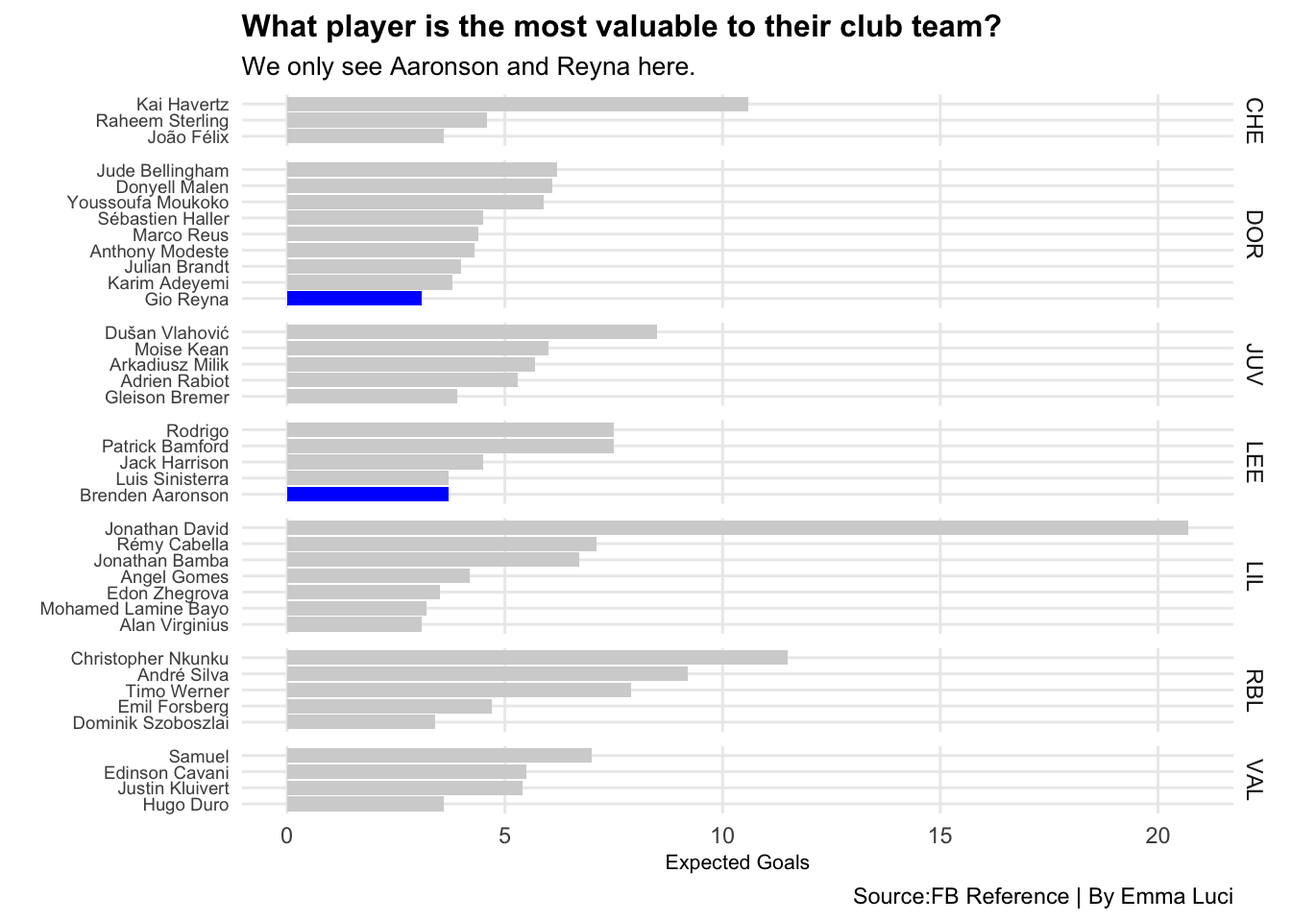
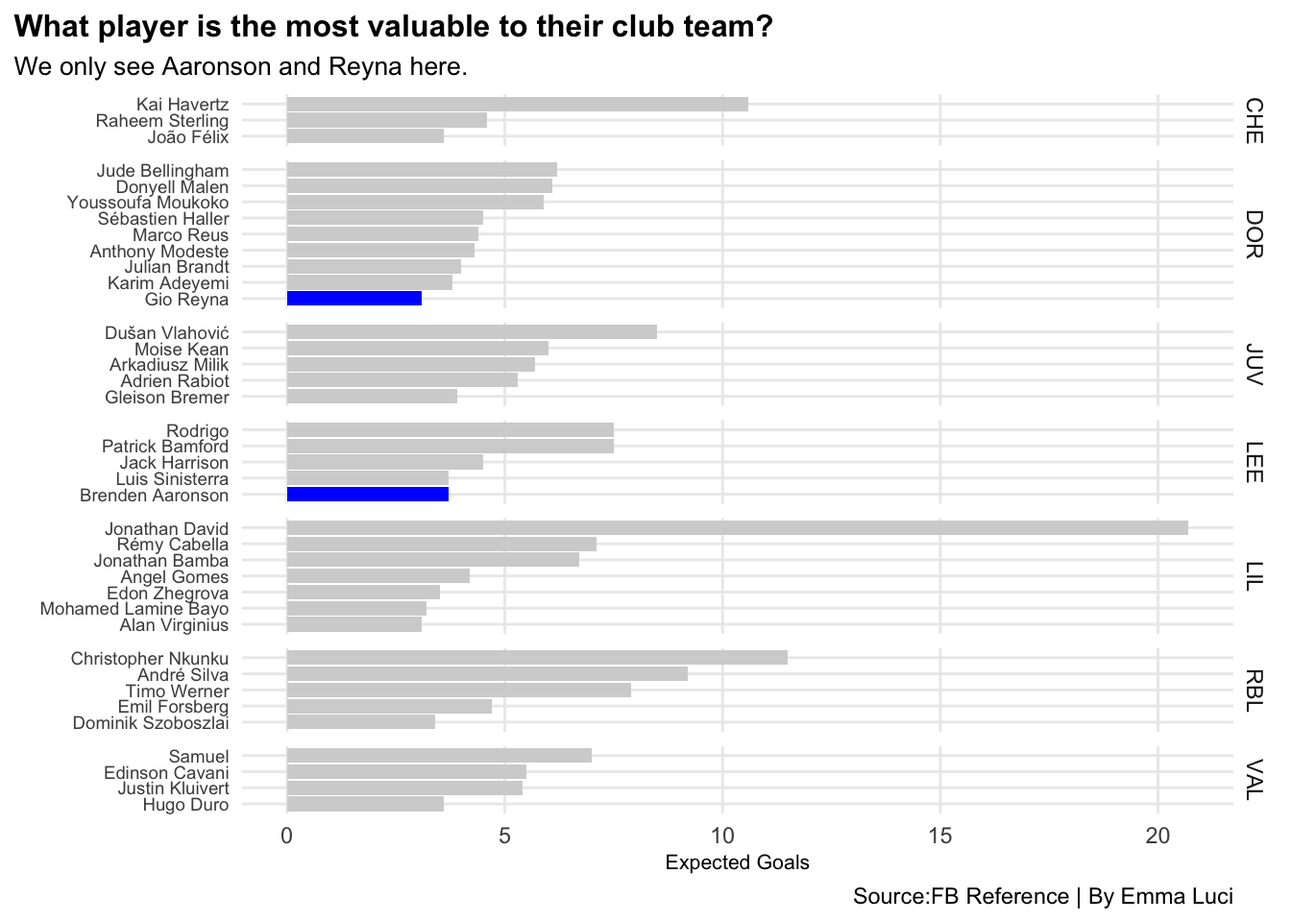
emma

Changed region(s): [[0.0, 0.0, 0.7812, 0.0938]]

diff --git a/posts/is-christian-pulisic-the-most-gifted-american-soccer-player/index.html b/posts/is-christian-pulisic-the-most-gifted-american-soccer-player/index.html
@@ -247,42 +247,39 @@ code span.wa { color: #60a0b0; font-weight: bold; font-style: italic; } /* Warni
 <span id="cb6-4"><a href="#cb6-4" aria-hidden="true" tabindex="-1"></a></span>
 <span id="cb6-5"><a href="#cb6-5" aria-hidden="true" tabindex="-1"></a>americanjoined <span class="ot">&lt;-</span> americapassing <span class="sc">%&gt;%</span> <span class="fu">inner_join</span>(americashooting)</span></code><button title="Copy to Clipboard" class="code-copy-button"><i class="bi"></i></button></pre></div>
 </details>
-<div class="cell-output cell-output-stderr">
-<pre><code>Joining, by = c("Season_End_Year", "Squad", "Comp", "Player", "Nation", "Pos",
-"Age", "Born", "Mins_Per_90", "Url")</code></pre>
-</div>
 </div>
 <div class="cell">
 <details>
 <summary>Code</summary>
-<div class="sourceCode cell-code" id="cb8"><pre class="sourceCode r code-with-copy"><code class="sourceCode r"><span id="cb8-1"><a href="#cb8-1" aria-hidden="true" tabindex="-1"></a><span class="co">#goals and assists of each player in stacked bar chart</span></span>
-<span id="cb8-2"><a href="#cb8-2" aria-hidden="true" tabindex="-1"></a>goalsandassists <span class="ot">&lt;-</span> americanjoined <span class="sc">%&gt;%</span> </span>
-<span id="cb8-3"><a href="#cb8-3" aria-hidden="true" tabindex="-1"></a>  <span class="fu">group_by</span>(Player) <span class="sc">%&gt;%</span> </span>
-<span id="cb8-4"><a href="#cb8-4" aria-hidden="true" tabindex="-1"></a>  <span class="fu">summarize</span>(</span>
-<span id="cb8-5"><a href="#cb8-5" aria-hidden="true" tabindex="-1"></a>    <span class="at">Goals =</span> <span class="fu">sum</span>(Gls_Standard, <span class="at">na.rm=</span><span class="cn">TRUE</span>),</span>
-<span id="cb8-6"><a href="#cb8-6" aria-hidden="true" tabindex="-1"></a>    <span class="at">Assists =</span> <span class="fu">sum</span>(Ast)</span>
-<span id="cb8-7"><a href="#cb8-7" aria-hidden="true" tabindex="-1"></a>    ) <span class="sc">%&gt;%</span></span>
-<span id="cb8-8"><a href="#cb8-8" aria-hidden="true" tabindex="-1"></a>  <span class="fu">pivot_longer</span>(<span class="at">cols=</span><span class="sc">-</span>Player, <span class="at">names_to =</span> <span class="st">"Type"</span>, <span class="at">values_to =</span> <span class="st">"Count"</span>)</span>
-<span id="cb8-9"><a href="#cb8-9" aria-hidden="true" tabindex="-1"></a></span>
-<span id="cb8-10"><a href="#cb8-10" aria-hidden="true" tabindex="-1"></a></span>
-<span id="cb8-11"><a href="#cb8-11" aria-hidden="true" tabindex="-1"></a><span class="fu">ggplot</span>() <span class="sc">+</span></span>
-<span id="cb8-12"><a href="#cb8-12" aria-hidden="true" tabindex="-1"></a>  <span class="fu">geom_bar</span>(</span>
-<span id="cb8-13"><a href="#cb8-13" aria-hidden="true" tabindex="-1"></a>    <span class="at">data=</span>goalsandassists,</span>
-<span id="cb8-14"><a href="#cb8-14" aria-hidden="true" tabindex="-1"></a>    <span class="fu">aes</span> (<span class="at">x=</span><span class="fu">reorder</span>(Player, Count), <span class="at">weight=</span>Count, <span class="at">fill=</span> Type)) <span class="sc">+</span></span>
-<span id="cb8-15"><a href="#cb8-15" aria-hidden="true" tabindex="-1"></a>  <span class="fu">coord_flip</span>() <span class="sc">+</span></span>
-<span id="cb8-16"><a href="#cb8-16" aria-hidden="true" tabindex="-1"></a><span class="fu">labs</span>(</span>
-<span id="cb8-17"><a href="#cb8-17" aria-hidden="true" tabindex="-1"></a>    <span class="at">title=</span><span class="st">"Who is the best player goals and assists wise?"</span>, </span>
-<span id="cb8-18"><a href="#cb8-18" aria-hidden="true" tabindex="-1"></a>    <span class="at">subtitle=</span><span class="st">"Apparently Adams and Aaronson are not goal scorers."</span>,</span>
-<span id="cb8-19"><a href="#cb8-19" aria-hidden="true" tabindex="-1"></a>    <span class="at">caption=</span><span class="st">"Source:FB Reference | By Emma Luci"</span>,</span>
-<span id="cb8-20"><a href="#cb8-20" aria-hidden="true" tabindex="-1"></a>    <span class="at">x=</span><span class="st">""</span>, </span>
-<span id="cb8-21"><a href="#cb8-21" aria-hidden="true" tabindex="-1"></a>    <span class="at">y=</span><span class="st">"Count"</span>) <span class="sc">+</span> </span>
-<span id="cb8-22"><a href="#cb8-22" aria-hidden="true" tabindex="-1"></a><span class="fu">theme_minimal</span>() <span class="sc">+</span></span>
-<span id="cb8-23"><a href="#cb8-23" aria-hidden="true" tabindex="-1"></a>  <span class="fu">theme</span>(</span>
-<span id="cb8-24"><a href="#cb8-24" aria-hidden="true" tabindex="-1"></a>   <span class="at">plot.title =</span> <span class="fu">element_text</span>(<span class="at">size =</span> <span class="dv">12</span>, <span class="at">face =</span> <span class="st">"bold"</span>),</span>
-<span id="cb8-25"><a href="#cb8-25" aria-hidden="true" tabindex="-1"></a>    <span class="at">axis.title =</span> <span class="fu">element_text</span>(<span class="at">size =</span> <span class="dv">8</span>), </span>
-<span id="cb8-26"><a href="#cb8-26" aria-hidden="true" tabindex="-1"></a>    <span class="at">plot.subtitle =</span> <span class="fu">element_text</span>(<span class="at">size=</span><span class="dv">10</span>), </span>
-<span id="cb8-27"><a href="#cb8-27" aria-hidden="true" tabindex="-1"></a>    <span class="at">panel.grid.minor =</span> <span class="fu">element_blank</span>()</span>
-<span id="cb8-28"><a href="#cb8-28" aria-hidden="true" tabindex="-1"></a>    ) </span></code><button title="Copy to Clipboard" class="code-copy-button"><i class="bi"></i></button></pre></div>
+<div class="sourceCode cell-code" id="cb7"><pre class="sourceCode r code-with-copy"><code class="sourceCode r"><span id="cb7-1"><a href="#cb7-1" aria-hidden="true" tabindex="-1"></a><span class="co">#goals and assists of each player in stacked bar chart</span></span>
+<span id="cb7-2"><a href="#cb7-2" aria-hidden="true" tabindex="-1"></a>goalsandassists <span class="ot">&lt;-</span> americanjoined <span class="sc">%&gt;%</span> </span>
+<span id="cb7-3"><a href="#cb7-3" aria-hidden="true" tabindex="-1"></a>  <span class="fu">group_by</span>(Player) <span class="sc">%&gt;%</span> </span>
+<span id="cb7-4"><a href="#cb7-4" aria-hidden="true" tabindex="-1"></a>  <span class="fu">summarize</span>(</span>
+<span id="cb7-5"><a href="#cb7-5" aria-hidden="true" tabindex="-1"></a>    <span class="at">Goals =</span> <span class="fu">sum</span>(Gls_Standard, <span class="at">na.rm=</span><span class="cn">TRUE</span>),</span>
+<span id="cb7-6"><a href="#cb7-6" aria-hidden="true" tabindex="-1"></a>    <span class="at">Assists =</span> <span class="fu">sum</span>(Ast)</span>
+<span id="cb7-7"><a href="#cb7-7" aria-hidden="true" tabindex="-1"></a>    ) <span class="sc">%&gt;%</span></span>
+<span id="cb7-8"><a href="#cb7-8" aria-hidden="true" tabindex="-1"></a>  <span class="fu">pivot_longer</span>(<span class="at">cols=</span><span class="sc">-</span>Player, <span class="at">names_to =</span> <span class="st">"Type"</span>, <span class="at">values_to =</span> <span class="st">"Count"</span>)</span>
+<span id="cb7-9"><a href="#cb7-9" aria-hidden="true" tabindex="-1"></a></span>
+<span id="cb7-10"><a href="#cb7-10" aria-hidden="true" tabindex="-1"></a></span>
+<span id="cb7-11"><a href="#cb7-11" aria-hidden="true" tabindex="-1"></a><span class="fu">ggplot</span>() <span class="sc">+</span></span>
+<span id="cb7-12"><a href="#cb7-12" aria-hidden="true" tabindex="-1"></a>  <span class="fu">geom_bar</span>(</span>
+<span id="cb7-13"><a href="#cb7-13" aria-hidden="true" tabindex="-1"></a>    <span class="at">data=</span>goalsandassists,</span>
+<span id="cb7-14"><a href="#cb7-14" aria-hidden="true" tabindex="-1"></a>    <span class="fu">aes</span> (<span class="at">x=</span><span class="fu">reorder</span>(Player, Count), <span class="at">weight=</span>Count, <span class="at">fill=</span> Type)) <span class="sc">+</span></span>
+<span id="cb7-15"><a href="#cb7-15" aria-hidden="true" tabindex="-1"></a>  <span class="fu">coord_flip</span>() <span class="sc">+</span></span>
+<span id="cb7-16"><a href="#cb7-16" aria-hidden="true" tabindex="-1"></a><span class="fu">labs</span>(</span>
+<span id="cb7-17"><a href="#cb7-17" aria-hidden="true" tabindex="-1"></a>    <span class="at">title=</span><span class="st">"Who is the best player goals and assists wise?"</span>, </span>
+<span id="cb7-18"><a href="#cb7-18" aria-hidden="true" tabindex="-1"></a>    <span class="at">subtitle=</span><span class="st">"Apparently Adams and Aaronson are not goal scorers."</span>,</span>
+<span id="cb7-19"><a href="#cb7-19" aria-hidden="true" tabindex="-1"></a>    <span class="at">caption=</span><span class="st">"Source:FB Reference | By Emma Luci"</span>,</span>
+<span id="cb7-20"><a href="#cb7-20" aria-hidden="true" tabindex="-1"></a>    <span class="at">x=</span><span class="st">""</span>, </span>
+<span id="cb7-21"><a href="#cb7-21" aria-hidden="true" tabindex="-1"></a>    <span class="at">y=</span><span class="st">""</span>) <span class="sc">+</span> </span>
+<span id="cb7-22"><a href="#cb7-22" aria-hidden="true" tabindex="-1"></a><span class="fu">theme_minimal</span>() <span class="sc">+</span></span>
+<span id="cb7-23"><a href="#cb7-23" aria-hidden="true" tabindex="-1"></a>  <span class="fu">theme</span>(</span>
+<span id="cb7-24"><a href="#cb7-24" aria-hidden="true" tabindex="-1"></a>   <span class="at">plot.title =</span> <span class="fu">element_text</span>(<span class="at">size =</span> <span class="dv">12</span>, <span class="at">face =</span> <span class="st">"bold"</span>),</span>
+<span id="cb7-25"><a href="#cb7-25" aria-hidden="true" tabindex="-1"></a>    <span class="at">axis.title =</span> <span class="fu">element_text</span>(<span class="at">size =</span> <span class="dv">8</span>), </span>
+<span id="cb7-26"><a href="#cb7-26" aria-hidden="true" tabindex="-1"></a>    <span class="at">plot.subtitle =</span> <span class="fu">element_text</span>(<span class="at">size=</span><span class="dv">10</span>), </span>
+<span id="cb7-27"><a href="#cb7-27" aria-hidden="true" tabindex="-1"></a>    <span class="at">panel.grid.minor =</span> <span class="fu">element_blank</span>(),</span>
+<span id="cb7-28"><a href="#cb7-28" aria-hidden="true" tabindex="-1"></a>    <span class="at">plot.title.position =</span> <span class="st">"plot"</span></span>
+<span id="cb7-29"><a href="#cb7-29" aria-hidden="true" tabindex="-1"></a>    ) </span></code><button title="Copy to Clipboard" class="code-copy-button"><i class="bi"></i></button></pre></div>
 </details>
 <div class="cell-output-display">
 <p><img src="index_files/figure-html/unnamed-chunk-7-1.png" class="img-fluid" width="672"></p>
@@ -294,27 +291,28 @@ code span.wa { color: #60a0b0; font-weight: bold; font-style: italic; } /* Warni
 <div class="cell">
 <details>
 <summary>Code</summary>
-<div class="sourceCode cell-code" id="cb9"><pre class="sourceCode r code-with-copy"><code class="sourceCode r"><span id="cb9-1"><a href="#cb9-1" aria-hidden="true" tabindex="-1"></a><span class="co">#Encircling on scatter plot to show who the best touches of American players</span></span>
-<span id="cb9-2"><a href="#cb9-2" aria-hidden="true" tabindex="-1"></a>pulisic <span class="ot">&lt;-</span> americapossession <span class="sc">%&gt;%</span> <span class="fu">filter</span>(Player <span class="sc">==</span> <span class="st">"Christian Pulisic"</span> <span class="sc">|</span> Player <span class="sc">==</span> <span class="st">"Gio Reyna"</span>)</span>
-<span id="cb9-3"><a href="#cb9-3" aria-hidden="true" tabindex="-1"></a></span>
-<span id="cb9-4"><a href="#cb9-4" aria-hidden="true" tabindex="-1"></a><span class="fu">ggplot</span>() <span class="sc">+</span> </span>
-<span id="cb9-5"><a href="#cb9-5" aria-hidden="true" tabindex="-1"></a>  <span class="fu">geom_point</span>(<span class="at">data=</span>big5_player_possession, <span class="fu">aes</span>(<span class="at">x=</span>Mins_Per_90, <span class="at">y=</span>Touches_Touches), <span class="at">color=</span><span class="st">"grey"</span>) <span class="sc">+</span> </span>
-<span id="cb9-6"><a href="#cb9-6" aria-hidden="true" tabindex="-1"></a>  <span class="fu">geom_point</span>(<span class="at">data=</span>americapossession, <span class="fu">aes</span>(<span class="at">x=</span>Mins_Per_90, <span class="at">y=</span>Touches_Touches), <span class="at">color=</span><span class="st">"black"</span>) <span class="sc">+</span> </span>
-<span id="cb9-7"><a href="#cb9-7" aria-hidden="true" tabindex="-1"></a>  <span class="fu">geom_encircle</span>(<span class="at">data=</span>pulisic, <span class="fu">aes</span>(<span class="at">x=</span>Mins_Per_90, <span class="at">y=</span>Touches_Touches), <span class="at">s_shape=</span><span class="dv">0</span>, <span class="at">expand=</span><span class="dv">0</span>, <span class="at">colour=</span><span class="st">"red"</span>) <span class="sc">+</span></span>
-<span id="cb9-8"><a href="#cb9-8" aria-hidden="true" tabindex="-1"></a>  <span class="fu">geom_text_repel</span>(<span class="at">data=</span>pulisic, <span class="fu">aes</span>(<span class="at">x=</span>Mins_Per_90, <span class="at">y=</span>Touches_Touches, <span class="at">label=</span><span class="st">"pulisic"</span>)) <span class="sc">+</span> </span>
-<span id="cb9-9"><a href="#cb9-9" aria-hidden="true" tabindex="-1"></a>  <span class="fu">labs</span>(</span>
-<span id="cb9-10"><a href="#cb9-10" aria-hidden="true" tabindex="-1"></a>    <span class="at">title=</span><span class="st">"Which player has the best number of touches?"</span>, </span>
-<span id="cb9-11"><a href="#cb9-11" aria-hidden="true" tabindex="-1"></a>    <span class="at">subtitle=</span><span class="st">" Shockingly, we see that Pulisic and Reyna are not at the top."</span>,</span>
-<span id="cb9-12"><a href="#cb9-12" aria-hidden="true" tabindex="-1"></a>    <span class="at">caption=</span><span class="st">"Source:FB Reference | By Emma Luci"</span>,</span>
-<span id="cb9-13"><a href="#cb9-13" aria-hidden="true" tabindex="-1"></a>    <span class="at">x=</span><span class="st">"Mins_Per_90"</span>, </span>
-<span id="cb9-14"><a href="#cb9-14" aria-hidden="true" tabindex="-1"></a>    <span class="at">y=</span><span class="st">"Touches"</span>) <span class="sc">+</span> </span>
-<span id="cb9-15"><a href="#cb9-15" aria-hidden="true" tabindex="-1"></a><span class="fu">theme_minimal</span>() <span class="sc">+</span></span>
-<span id="cb9-16"><a href="#cb9-16" aria-hidden="true" tabindex="-1"></a>  <span class="fu">theme</span>(</span>
-<span id="cb9-17"><a href="#cb9-17" aria-hidden="true" tabindex="-1"></a>   <span class="at">plot.title =</span> <span class="fu">element_text</span>(<span class="at">size =</span> <span class="dv">14</span>, <span class="at">face =</span> <span class="st">"bold"</span>),</span>
-<span id="cb9-18"><a href="#cb9-18" aria-hidden="true" tabindex="-1"></a>    <span class="at">axis.title =</span> <span class="fu">element_text</span>(<span class="at">size =</span> <span class="dv">10</span>), </span>
-<span id="cb9-19"><a href="#cb9-19" aria-hidden="true" tabindex="-1"></a>    <span class="at">plot.subtitle =</span> <span class="fu">element_text</span>(<span class="at">size=</span><span class="dv">10</span>), </span>
-<span id="cb9-20"><a href="#cb9-20" aria-hidden="true" tabindex="-1"></a>    <span class="at">panel.grid.minor =</span> <span class="fu">element_blank</span>()</span>
-<span id="cb9-21"><a href="#cb9-21" aria-hidden="true" tabindex="-1"></a>    ) </span></code><button title="Copy to Clipboard" class="code-copy-button"><i class="bi"></i></button></pre></div>
+<div class="sourceCode cell-code" id="cb8"><pre class="sourceCode r code-with-copy"><code class="sourceCode r"><span id="cb8-1"><a href="#cb8-1" aria-hidden="true" tabindex="-1"></a><span class="co">#Encircling on scatter plot to show who the best touches of American players</span></span>
+<span id="cb8-2"><a href="#cb8-2" aria-hidden="true" tabindex="-1"></a>pulisic <span class="ot">&lt;-</span> americapossession <span class="sc">%&gt;%</span> <span class="fu">filter</span>(Player <span class="sc">==</span> <span class="st">"Christian Pulisic"</span> <span class="sc">|</span> Player <span class="sc">==</span> <span class="st">"Gio Reyna"</span>)</span>
+<span id="cb8-3"><a href="#cb8-3" aria-hidden="true" tabindex="-1"></a></span>
+<span id="cb8-4"><a href="#cb8-4" aria-hidden="true" tabindex="-1"></a><span class="fu">ggplot</span>() <span class="sc">+</span> </span>
+<span id="cb8-5"><a href="#cb8-5" aria-hidden="true" tabindex="-1"></a>  <span class="fu">geom_point</span>(<span class="at">data=</span>big5_player_possession, <span class="fu">aes</span>(<span class="at">x=</span>Mins_Per_90, <span class="at">y=</span>Touches_Touches), <span class="at">color=</span><span class="st">"grey"</span>) <span class="sc">+</span> </span>
+<span id="cb8-6"><a href="#cb8-6" aria-hidden="true" tabindex="-1"></a>  <span class="fu">geom_point</span>(<span class="at">data=</span>americapossession, <span class="fu">aes</span>(<span class="at">x=</span>Mins_Per_90, <span class="at">y=</span>Touches_Touches), <span class="at">color=</span><span class="st">"black"</span>) <span class="sc">+</span> </span>
+<span id="cb8-7"><a href="#cb8-7" aria-hidden="true" tabindex="-1"></a>  <span class="fu">geom_encircle</span>(<span class="at">data=</span>pulisic, <span class="fu">aes</span>(<span class="at">x=</span>Mins_Per_90, <span class="at">y=</span>Touches_Touches), <span class="at">s_shape=</span><span class="dv">0</span>, <span class="at">expand=</span><span class="dv">0</span>, <span class="at">colour=</span><span class="st">"red"</span>) <span class="sc">+</span></span>
+<span id="cb8-8"><a href="#cb8-8" aria-hidden="true" tabindex="-1"></a>  <span class="fu">geom_text_repel</span>(<span class="at">data=</span>pulisic, <span class="fu">aes</span>(<span class="at">x=</span>Mins_Per_90, <span class="at">y=</span>Touches_Touches, <span class="at">label=</span><span class="st">"pulisic"</span>)) <span class="sc">+</span> </span>
+<span id="cb8-9"><a href="#cb8-9" aria-hidden="true" tabindex="-1"></a>  <span class="fu">labs</span>(</span>
+<span id="cb8-10"><a href="#cb8-10" aria-hidden="true" tabindex="-1"></a>    <span class="at">title=</span><span class="st">"Which player has the best number of touches?"</span>, </span>
+<span id="cb8-11"><a href="#cb8-11" aria-hidden="true" tabindex="-1"></a>    <span class="at">subtitle=</span><span class="st">" Shockingly, we see that Pulisic and Reyna are not at the top."</span>,</span>
+<span id="cb8-12"><a href="#cb8-12" aria-hidden="true" tabindex="-1"></a>    <span class="at">caption=</span><span class="st">"Source:FB Reference | By Emma Luci"</span>,</span>
+<span id="cb8-13"><a href="#cb8-13" aria-hidden="true" tabindex="-1"></a>    <span class="at">x=</span><span class="st">"Mins_Per_90"</span>, </span>
+<span id="cb8-14"><a href="#cb8-14" aria-hidden="true" tabindex="-1"></a>    <span class="at">y=</span><span class="st">"Touches"</span>) <span class="sc">+</span> </span>
+<span id="cb8-15"><a href="#cb8-15" aria-hidden="true" tabindex="-1"></a><span class="fu">theme_minimal</span>() <span class="sc">+</span></span>
+<span id="cb8-16"><a href="#cb8-16" aria-hidden="true" tabindex="-1"></a>  <span class="fu">theme</span>(</span>
+<span id="cb8-17"><a href="#cb8-17" aria-hidden="true" tabindex="-1"></a>   <span class="at">plot.title =</span> <span class="fu">element_text</span>(<span class="at">size =</span> <span class="dv">14</span>, <span class="at">face =</span> <span class="st">"bold"</span>),</span>
+<span id="cb8-18"><a href="#cb8-18" aria-hidden="true" tabindex="-1"></a>    <span class="at">axis.title =</span> <span class="fu">element_text</span>(<span class="at">size =</span> <span class="dv">10</span>), </span>
+<span id="cb8-19"><a href="#cb8-19" aria-hidden="true" tabindex="-1"></a>    <span class="at">plot.subtitle =</span> <span class="fu">element_text</span>(<span class="at">size=</span><span class="dv">10</span>), </span>
+<span id="cb8-20"><a href="#cb8-20" aria-hidden="true" tabindex="-1"></a>    <span class="at">panel.grid.minor =</span> <span class="fu">element_blank</span>(),</span>
+<span id="cb8-21"><a href="#cb8-21" aria-hidden="true" tabindex="-1"></a>   <span class="at">plot.title.position =</span> <span class="st">"plot"</span></span>
+<span id="cb8-22"><a href="#cb8-22" aria-hidden="true" tabindex="-1"></a>    ) </span></code><button title="Copy to Clipboard" class="code-copy-button"><i class="bi"></i></button></pre></div>
 </details>
 <div class="cell-output-display">
 <p><img src="index_files/figure-html/unnamed-chunk-8-1.png" class="img-fluid" width="672"></p>
@@ -324,53 +322,54 @@ code span.wa { color: #60a0b0; font-weight: bold; font-style: italic; } /* Warni
 <div class="cell">
 <details>
 <summary>Code</summary>
-<div class="sourceCode cell-code" id="cb10"><pre class="sourceCode r code-with-copy"><code class="sourceCode r"><span id="cb10-1"><a href="#cb10-1" aria-hidden="true" tabindex="-1"></a><span class="co">#bar chart of each player to compare their worth to the teams that they play for outside of the US</span></span>
-<span id="cb10-2"><a href="#cb10-2" aria-hidden="true" tabindex="-1"></a></span>
-<span id="cb10-3"><a href="#cb10-3" aria-hidden="true" tabindex="-1"></a>teams <span class="ot">&lt;-</span> big5_player_shooting <span class="sc">%&gt;%</span> </span>
-<span id="cb10-4"><a href="#cb10-4" aria-hidden="true" tabindex="-1"></a>  <span class="fu">filter</span>(Squad <span class="sc">%in%</span> americanjoined<span class="sc">$</span>Squad) <span class="sc">%&gt;%</span> </span>
-<span id="cb10-5"><a href="#cb10-5" aria-hidden="true" tabindex="-1"></a>  <span class="fu">filter</span>(Season_End_Year <span class="sc">==</span> <span class="dv">2023</span>) <span class="sc">%&gt;%</span> </span>
-<span id="cb10-6"><a href="#cb10-6" aria-hidden="true" tabindex="-1"></a>  <span class="fu">filter</span>(xG_Expected <span class="sc">&gt;=</span> <span class="dv">3</span>) <span class="sc">%&gt;%</span></span>
-<span id="cb10-7"><a href="#cb10-7" aria-hidden="true" tabindex="-1"></a>  <span class="fu">mutate</span>(<span class="at">Squad =</span> </span>
-<span id="cb10-8"><a href="#cb10-8" aria-hidden="true" tabindex="-1"></a>    <span class="fu">case_when</span>(</span>
-<span id="cb10-9"><a href="#cb10-9" aria-hidden="true" tabindex="-1"></a>      Squad <span class="sc">==</span> <span class="st">"Leeds United"</span> <span class="sc">~</span> <span class="st">"LEE"</span>,</span>
-<span id="cb10-10"><a href="#cb10-10" aria-hidden="true" tabindex="-1"></a>      Squad <span class="sc">==</span> <span class="st">"Chelsea"</span> <span class="sc">~</span> <span class="st">"CHE"</span>,</span>
-<span id="cb10-11"><a href="#cb10-11" aria-hidden="true" tabindex="-1"></a>      Squad <span class="sc">==</span> <span class="st">"Dortmund"</span> <span class="sc">~</span> <span class="st">"DOR"</span>,</span>
-<span id="cb10-12"><a href="#cb10-12" aria-hidden="true" tabindex="-1"></a>      Squad <span class="sc">==</span> <span class="st">"Juventus"</span> <span class="sc">~</span> <span class="st">"JUV"</span>,</span>
-<span id="cb10-13"><a href="#cb10-13" aria-hidden="true" tabindex="-1"></a>      Squad <span class="sc">==</span> <span class="st">"Lille"</span> <span class="sc">~</span> <span class="st">"LIL"</span>,</span>
-<span id="cb10-14"><a href="#cb10-14" aria-hidden="true" tabindex="-1"></a>      Squad <span class="sc">==</span> <span class="st">"RB Leipzig"</span> <span class="sc">~</span> <span class="st">"RBL"</span>,</span>
-<span id="cb10-15"><a href="#cb10-15" aria-hidden="true" tabindex="-1"></a>      Squad <span class="sc">==</span> <span class="st">"Valencia"</span> <span class="sc">~</span> <span class="st">"VAL"</span></span>
-<span id="cb10-16"><a href="#cb10-16" aria-hidden="true" tabindex="-1"></a>    )</span>
-<span id="cb10-17"><a href="#cb10-17" aria-hidden="true" tabindex="-1"></a>  )</span>
-<span id="cb10-18"><a href="#cb10-18" aria-hidden="true" tabindex="-1"></a>americanbar <span class="ot">&lt;-</span> teams <span class="sc">%&gt;%</span> <span class="fu">filter</span>(Nation <span class="sc">==</span> <span class="st">"USA"</span>)</span>
-<span id="cb10-19"><a href="#cb10-19" aria-hidden="true" tabindex="-1"></a><span class="fu">ggplot</span>() <span class="sc">+</span> </span>
-<span id="cb10-20"><a href="#cb10-20" aria-hidden="true" tabindex="-1"></a>  <span class="fu">geom_bar</span>(</span>
-<span id="cb10-21"><a href="#cb10-21" aria-hidden="true" tabindex="-1"></a>    <span class="at">data=</span>teams, </span>
-<span id="cb10-22"><a href="#cb10-22" aria-hidden="true" tabindex="-1"></a>    <span class="fu">aes</span>(</span>
-<span id="cb10-23"><a href="#cb10-23" aria-hidden="true" tabindex="-1"></a>      <span class="at">x=</span><span class="fu">reorder</span>(Player, xG_Expected), </span>
-<span id="cb10-24"><a href="#cb10-24" aria-hidden="true" tabindex="-1"></a>      <span class="at">weight=</span>xG_Expected</span>
-<span id="cb10-25"><a href="#cb10-25" aria-hidden="true" tabindex="-1"></a>    ), <span class="at">fill=</span> <span class="st">"light grey"</span>) <span class="sc">+</span> </span>
-<span id="cb10-26"><a href="#cb10-26" aria-hidden="true" tabindex="-1"></a>  <span class="fu">geom_bar</span>(</span>
-<span id="cb10-27"><a href="#cb10-27" aria-hidden="true" tabindex="-1"></a>    <span class="at">data=</span>americanbar, </span>
-<span id="cb10-28"><a href="#cb10-28" aria-hidden="true" tabindex="-1"></a>    <span class="fu">aes</span>(</span>
-<span id="cb10-29"><a href="#cb10-29" aria-hidden="true" tabindex="-1"></a>      <span class="at">x=</span><span class="fu">reorder</span>(Player, xG_Expected), </span>
-<span id="cb10-30"><a href="#cb10-30" aria-hidden="true" tabindex="-1"></a>      <span class="at">weight=</span>xG_Expected</span>
-<span id="cb10-31"><a href="#cb10-31" aria-hidden="true" tabindex="-1"></a>    ), <span class="at">fill=</span><span class="st">"blue"</span>) <span class="sc">+</span> </span>
-<span id="cb10-32"><a href="#cb10-32" aria-hidden="true" tabindex="-1"></a>  <span class="fu">coord_flip</span>() <span class="sc">+</span> </span>
-<span id="cb10-33"><a href="#cb10-33" aria-hidden="true" tabindex="-1"></a>  <span class="fu">facet_grid</span>(Squad <span class="sc">~</span> ., <span class="at">scales=</span><span class="st">"free"</span>, <span class="at">space=</span><span class="st">"free"</span>) <span class="sc">+</span></span>
-<span id="cb10-34"><a href="#cb10-34" aria-hidden="true" tabindex="-1"></a><span class="fu">labs</span>(</span>
-<span id="cb10-35"><a href="#cb10-35" aria-hidden="true" tabindex="-1"></a>    <span class="at">title=</span><span class="st">"What player is the most valuable to their club team?"</span>, </span>
-<span id="cb10-36"><a href="#cb10-36" aria-hidden="true" tabindex="-1"></a>    <span class="at">subtitle=</span><span class="st">"We only see Aaronson and Reyna here."</span>,</span>
-<span id="cb10-37"><a href="#cb10-37" aria-hidden="true" tabindex="-1"></a>    <span class="at">caption=</span><span class="st">"Source:FB Reference | By Emma Luci"</span>,</span>
-<span id="cb10-38"><a href="#cb10-38" aria-hidden="true" tabindex="-1"></a>    <span class="at">x=</span><span class="st">""</span>, </span>
-<span id="cb10-39"><a href="#cb10-39" aria-hidden="true" tabindex="-1"></a>    <span class="at">y=</span><span class="st">"Expected Goals"</span>) <span class="sc">+</span> </span>
-<span id="cb10-40"><a href="#cb10-40" aria-hidden="true" tabindex="-1"></a><span class="fu">theme_minimal</span>() <span class="sc">+</span></span>
-<span id="cb10-41"><a href="#cb10-41" aria-hidden="true" tabindex="-1"></a>  <span class="fu">theme</span>(</span>
-<span id="cb10-42"><a href="#cb10-42" aria-hidden="true" tabindex="-1"></a>   <span class="at">plot.title =</span> <span class="fu">element_text</span>(<span class="at">size =</span> <span class="dv">12</span>, <span class="at">face =</span> <span class="st">"bold"</span>),</span>
-<span id="cb10-43"><a href="#cb10-43" aria-hidden="true" tabindex="-1"></a>    <span class="at">axis.title =</span> <span class="fu">element_text</span>(<span class="at">size =</span> <span class="dv">8</span>), </span>
-<span id="cb10-44"><a href="#cb10-44" aria-hidden="true" tabindex="-1"></a>    <span class="at">plot.subtitle =</span> <span class="fu">element_text</span>(<span class="at">size=</span><span class="dv">10</span>), </span>
-<span id="cb10-45"><a href="#cb10-45" aria-hidden="true" tabindex="-1"></a>    <span class="at">panel.grid.minor =</span> <span class="fu">element_blank</span>(),</span>
-<span id="cb10-46"><a href="#cb10-46" aria-hidden="true" tabindex="-1"></a>   <span class="at">axis.text.y =</span> <span class="fu">element_text</span>(<span class="at">size=</span><span class="dv">7</span>)</span>
-<span id="cb10-47"><a href="#cb10-47" aria-hidden="true" tabindex="-1"></a>    ) </span></code><button title="Copy to Clipboard" class="code-copy-button"><i class="bi"></i></button></pre></div>
+<div class="sourceCode cell-code" id="cb9"><pre class="sourceCode r code-with-copy"><code class="sourceCode r"><span id="cb9-1"><a href="#cb9-1" aria-hidden="true" tabindex="-1"></a><span class="co">#bar chart of each player to compare their worth to the teams that they play for outside of the US</span></span>
+<span id="cb9-2"><a href="#cb9-2" aria-hidden="true" tabindex="-1"></a></span>
+<span id="cb9-3"><a href="#cb9-3" aria-hidden="true" tabindex="-1"></a>teams <span class="ot">&lt;-</span> big5_player_shooting <span class="sc">%&gt;%</span> </span>
+<span id="cb9-4"><a href="#cb9-4" aria-hidden="true" tabindex="-1"></a>  <span class="fu">filter</span>(Squad <span class="sc">%in%</span> americanjoined<span class="sc">$</span>Squad) <span class="sc">%&gt;%</span> </span>
+<span id="cb9-5"><a href="#cb9-5" aria-hidden="true" tabindex="-1"></a>  <span class="fu">filter</span>(Season_End_Year <span class="sc">==</span> <span class="dv">2023</span>) <span class="sc">%&gt;%</span> </span>
+<span id="cb9-6"><a href="#cb9-6" aria-hidden="true" tabindex="-1"></a>  <span class="fu">filter</span>(xG_Expected <span class="sc">&gt;=</span> <span class="dv">3</span>) <span class="sc">%&gt;%</span></span>
+<span id="cb9-7"><a href="#cb9-7" aria-hidden="true" tabindex="-1"></a>  <span class="fu">mutate</span>(<span class="at">Squad =</span> </span>
+<span id="cb9-8"><a href="#cb9-8" aria-hidden="true" tabindex="-1"></a>    <span class="fu">case_when</span>(</span>
+<span id="cb9-9"><a href="#cb9-9" aria-hidden="true" tabindex="-1"></a>      Squad <span class="sc">==</span> <span class="st">"Leeds United"</span> <span class="sc">~</span> <span class="st">"LEE"</span>,</span>
+<span id="cb9-10"><a href="#cb9-10" aria-hidden="true" tabindex="-1"></a>      Squad <span class="sc">==</span> <span class="st">"Chelsea"</span> <span class="sc">~</span> <span class="st">"CHE"</span>,</span>
+<span id="cb9-11"><a href="#cb9-11" aria-hidden="true" tabindex="-1"></a>      Squad <span class="sc">==</span> <span class="st">"Dortmund"</span> <span class="sc">~</span> <span class="st">"DOR"</span>,</span>
+<span id="cb9-12"><a href="#cb9-12" aria-hidden="true" tabindex="-1"></a>      Squad <span class="sc">==</span> <span class="st">"Juventus"</span> <span class="sc">~</span> <span class="st">"JUV"</span>,</span>
+<span id="cb9-13"><a href="#cb9-13" aria-hidden="true" tabindex="-1"></a>      Squad <span class="sc">==</span> <span class="st">"Lille"</span> <span class="sc">~</span> <span class="st">"LIL"</span>,</span>
+<span id="cb9-14"><a href="#cb9-14" aria-hidden="true" tabindex="-1"></a>      Squad <span class="sc">==</span> <span class="st">"RB Leipzig"</span> <span class="sc">~</span> <span class="st">"RBL"</span>,</span>
+<span id="cb9-15"><a href="#cb9-15" aria-hidden="true" tabindex="-1"></a>      Squad <span class="sc">==</span> <span class="st">"Valencia"</span> <span class="sc">~</span> <span class="st">"VAL"</span></span>
+<span id="cb9-16"><a href="#cb9-16" aria-hidden="true" tabindex="-1"></a>    )</span>
+<span id="cb9-17"><a href="#cb9-17" aria-hidden="true" tabindex="-1"></a>  )</span>
+<span id="cb9-18"><a href="#cb9-18" aria-hidden="true" tabindex="-1"></a>americanbar <span class="ot">&lt;-</span> teams <span class="sc">%&gt;%</span> <span class="fu">filter</span>(Nation <span class="sc">==</span> <span class="st">"USA"</span>)</span>
+<span id="cb9-19"><a href="#cb9-19" aria-hidden="true" tabindex="-1"></a><span class="fu">ggplot</span>() <span class="sc">+</span> </span>
+<span id="cb9-20"><a href="#cb9-20" aria-hidden="true" tabindex="-1"></a>  <span class="fu">geom_bar</span>(</span>
+<span id="cb9-21"><a href="#cb9-21" aria-hidden="true" tabindex="-1"></a>    <span class="at">data=</span>teams, </span>
+<span id="cb9-22"><a href="#cb9-22" aria-hidden="true" tabindex="-1"></a>    <span class="fu">aes</span>(</span>
+<span id="cb9-23"><a href="#cb9-23" aria-hidden="true" tabindex="-1"></a>      <span class="at">x=</span><span class="fu">reorder</span>(Player, xG_Expected), </span>
+<span id="cb9-24"><a href="#cb9-24" aria-hidden="true" tabindex="-1"></a>      <span class="at">weight=</span>xG_Expected</span>
+<span id="cb9-25"><a href="#cb9-25" aria-hidden="true" tabindex="-1"></a>    ), <span class="at">fill=</span> <span class="st">"light grey"</span>) <span class="sc">+</span> </span>
+<span id="cb9-26"><a href="#cb9-26" aria-hidden="true" tabindex="-1"></a>  <span class="fu">geom_bar</span>(</span>
+<span id="cb9-27"><a href="#cb9-27" aria-hidden="true" tabindex="-1"></a>    <span class="at">data=</span>americanbar, </span>
+<span id="cb9-28"><a href="#cb9-28" aria-hidden="true" tabindex="-1"></a>    <span class="fu">aes</span>(</span>
+<span id="cb9-29"><a href="#cb9-29" aria-hidden="true" tabindex="-1"></a>      <span class="at">x=</span><span class="fu">reorder</span>(Player, xG_Expected), </span>
+<span id="cb9-30"><a href="#cb9-30" aria-hidden="true" tabindex="-1"></a>      <span class="at">weight=</span>xG_Expected</span>
+<span id="cb9-31"><a href="#cb9-31" aria-hidden="true" tabindex="-1"></a>    ), <span class="at">fill=</span><span class="st">"blue"</span>) <span class="sc">+</span> </span>
+<span id="cb9-32"><a href="#cb9-32" aria-hidden="true" tabindex="-1"></a>  <span class="fu">coord_flip</span>() <span class="sc">+</span> </span>
+<span id="cb9-33"><a href="#cb9-33" aria-hidden="true" tabindex="-1"></a>  <span class="fu">facet_grid</span>(Squad <span class="sc">~</span> ., <span class="at">scales=</span><span class="st">"free"</span>, <span class="at">space=</span><span class="st">"free"</span>) <span class="sc">+</span></span>
+<span id="cb9-34"><a href="#cb9-34" aria-hidden="true" tabindex="-1"></a><span class="fu">labs</span>(</span>
+<span id="cb9-35"><a href="#cb9-35" aria-hidden="true" tabindex="-1"></a>    <span class="at">title=</span><span class="st">"What player is the most valuable to their club team?"</span>, </span>
+<span id="cb9-36"><a href="#cb9-36" aria-hidden="true" tabindex="-1"></a>    <span class="at">subtitle=</span><span class="st">"We only see Aaronson and Reyna here."</span>,</span>
+<span id="cb9-37"><a href="#cb9-37" aria-hidden="true" tabindex="-1"></a>    <span class="at">caption=</span><span class="st">"Source:FB Reference | By Emma Luci"</span>,</span>
+<span id="cb9-38"><a href="#cb9-38" aria-hidden="true" tabindex="-1"></a>    <span class="at">x=</span><span class="st">""</span>, </span>
+<span id="cb9-39"><a href="#cb9-39" aria-hidden="true" tabindex="-1"></a>    <span class="at">y=</span><span class="st">"Expected Goals"</span>) <span class="sc">+</span> </span>
+<span id="cb9-40"><a href="#cb9-40" aria-hidden="true" tabindex="-1"></a><span class="fu">theme_minimal</span>() <span class="sc">+</span></span>
+<span id="cb9-41"><a href="#cb9-41" aria-hidden="true" tabindex="-1"></a>  <span class="fu">theme</span>(</span>
+<span id="cb9-42"><a href="#cb9-42" aria-hidden="true" tabindex="-1"></a>   <span class="at">plot.title =</span> <span class="fu">element_text</span>(<span class="at">size =</span> <span class="dv">12</span>, <span class="at">face =</span> <span class="st">"bold"</span>),</span>
+<span id="cb9-43"><a href="#cb9-43" aria-hidden="true" tabindex="-1"></a>    <span class="at">axis.title =</span> <span class="fu">element_text</span>(<span class="at">size =</span> <span class="dv">8</span>), </span>
+<span id="cb9-44"><a href="#cb9-44" aria-hidden="true" tabindex="-1"></a>    <span class="at">plot.subtitle =</span> <span class="fu">element_text</span>(<span class="at">size=</span><span class="dv">10</span>), </span>
+<span id="cb9-45"><a href="#cb9-45" aria-hidden="true" tabindex="-1"></a>    <span class="at">panel.grid.minor =</span> <span class="fu">element_blank</span>(),</span>
+<span id="cb9-46"><a href="#cb9-46" aria-hidden="true" tabindex="-1"></a>   <span class="at">axis.text.y =</span> <span class="fu">element_text</span>(<span class="at">size=</span><span class="dv">7</span>),</span>
+<span id="cb9-47"><a href="#cb9-47" aria-hidden="true" tabindex="-1"></a>   <span class="at">plot.title.position =</span> <span class="st">"plot"</span></span>
+<span id="cb9-48"><a href="#cb9-48" aria-hidden="true" tabindex="-1"></a>    ) </span></code><button title="Copy to Clipboard" class="code-copy-button"><i class="bi"></i></button></pre></div>
 </details>
 <div class="cell-output-display">
 <p><img src="index_files/figure-html/unnamed-chunk-9-1.png" class="img-fluid" width="672"></p>

diff --git a/index.html b/index.html
@@ -152,7 +152,7 @@ ul.task-list li input[type="checkbox"] {
 <!-- margin-sidebar -->
     <div id="quarto-margin-sidebar" class="sidebar margin-sidebar">
         
-    <h5 class="quarto-listing-category-title">Categories</h5><div class="quarto-listing-category category-default"><div class="category" data-category="">All <span class="quarto-category-count">(3)</span></div></div></div>
+    <h5 class="quarto-listing-category-title">Categories</h5><div class="quarto-listing-category category-default"><div class="category" data-category="">All <span class="quarto-category-count">(2)</span></div></div></div>
 <!-- main -->
 <main class="content quarto-banner-title-block column-page-left" id="quarto-document-content">
 
@@ -165,25 +165,25 @@ ul.task-list li input[type="checkbox"] {
 
 <div class="quarto-listing quarto-listing-container-default" id="listing-listing">
 <div class="list quarto-listing-default">
-<div class="quarto-post image-right" data-index="0" data-listing-date-sort="1651899600000" data-listing-file-modified-sort="1683134499191" data-listing-reading-time-sort="4.51">
+<div class="quarto-post image-right" data-index="0" data-listing-date-sort="1651899600000" data-listing-file-modified-sort="1683140530213" data-listing-reading-time-sort="6.895">
 <div class="thumbnail">
-<p><a href="./posts/christian-pulisic/index.html"> <img src="./posts/christian-pulisic/image.png" class="thumnail-image"> </a></p>
+<p><a href="./posts/is-christian-pulisic-the-most-gifted-american-soccer-player/index.html"> <img src="./posts/is-christian-pulisic-the-most-gifted-american-soccer-player/image.png" class="thumnail-image"> </a></p>
 </div>
 <div class="body">
-<a href="./posts/christian-pulisic/index.html">
+<a href="./posts/is-christian-pulisic-the-most-gifted-american-soccer-player/index.html">
 <h3 class="no-anchor listing-title">
-Is Christian Pulisic the best American soccer player?
+Is Christian Pulisic the most gifted American soccer player?
 </h3>
 <div class="listing-subtitle">
 
 </div>
 <div class="listing-description">
-<!-- desc(5A0113B34292)[max=175]:posts/christian-pulisic/index.html -->
+Christian Pulisic, nicknamed Captain America by US fans, has been a men’s national team star for years, but is he the best? If you don’t know who he is, you should. The…
 </div>
 </a>
 </div>
 <div class="metadata">
-<a href="./posts/christian-pulisic/index.html">
+<a href="./posts/is-christian-pulisic-the-most-gifted-american-soccer-player/index.html">
 <div class="listing-date">
 May 7, 2022
 </div>
@@ -193,35 +193,7 @@ Emma Luci
 </a>
 </div>
 </div>
-<div class="quarto-post image-right" data-index="1" data-listing-date-sort="1651899600000" data-listing-file-modified-sort="1683134679190" data-listing-reading-time-sort="4.51">
-<div class="thumbnail">
-<p><a href="./posts/christian-pulisic/index.html"> <img src="./posts/christian-pulisic/image.png" class="thumnail-image"> </a></p>
-</div>
-<div class="body">
-<a href="./posts/christian-pulisic/index.html">
-<h3 class="no-anchor listing-title">
-Is Christian Pulisic the best American soccer player?
-</h3>
-<div class="listing-subtitle">
-
-</div>
-<div class="listing-description">
-<!-- desc(5A0113B34292)[max=175]:posts/christian-pulisic/index.html -->
-</div>
-</a>
-</div>
-<div class="metadata">
-<a href="./posts/christian-pulisic/index.html">
-<div class="listing-date">
-May 7, 2022
-</div>
-<div class="listing-author">
-Emma Luci
-</div>
-</a>
-</div>
-</div>
-<div class="quarto-post image-right" data-index="2" data-listing-date-sort="1650085200000" data-listing-file-modified-sort="1682962834410" data-listing-reading-time-sort="8.445">
+<div class="quarto-post image-right" data-index="1" data-listing-date-sort="1650085200000" data-listing-file-modified-sort="1682962834410" data-listing-reading-time-sort="8.445">
 <div class="thumbnail">
 <p><a href="./posts/broncos/index.html"> <img src="./posts/broncos/image.png" class="thumnail-image"> </a></p>
 </div>
@@ -234,7 +206,7 @@ Are the Denver Broncos the worst offensive-scoring team in the NFL?
 
 </div>
 <div class="listing-description">
-<!-- desc(5A0113B34292)[max=175]:posts/broncos/index.html -->
+Denver Broncos fans are already looking forward to the 2023 season. Dedicated fans were caught blindly optimistic after the five-year contract binding Russell Wilson to the…
 </div>
 </a>
 </div>
